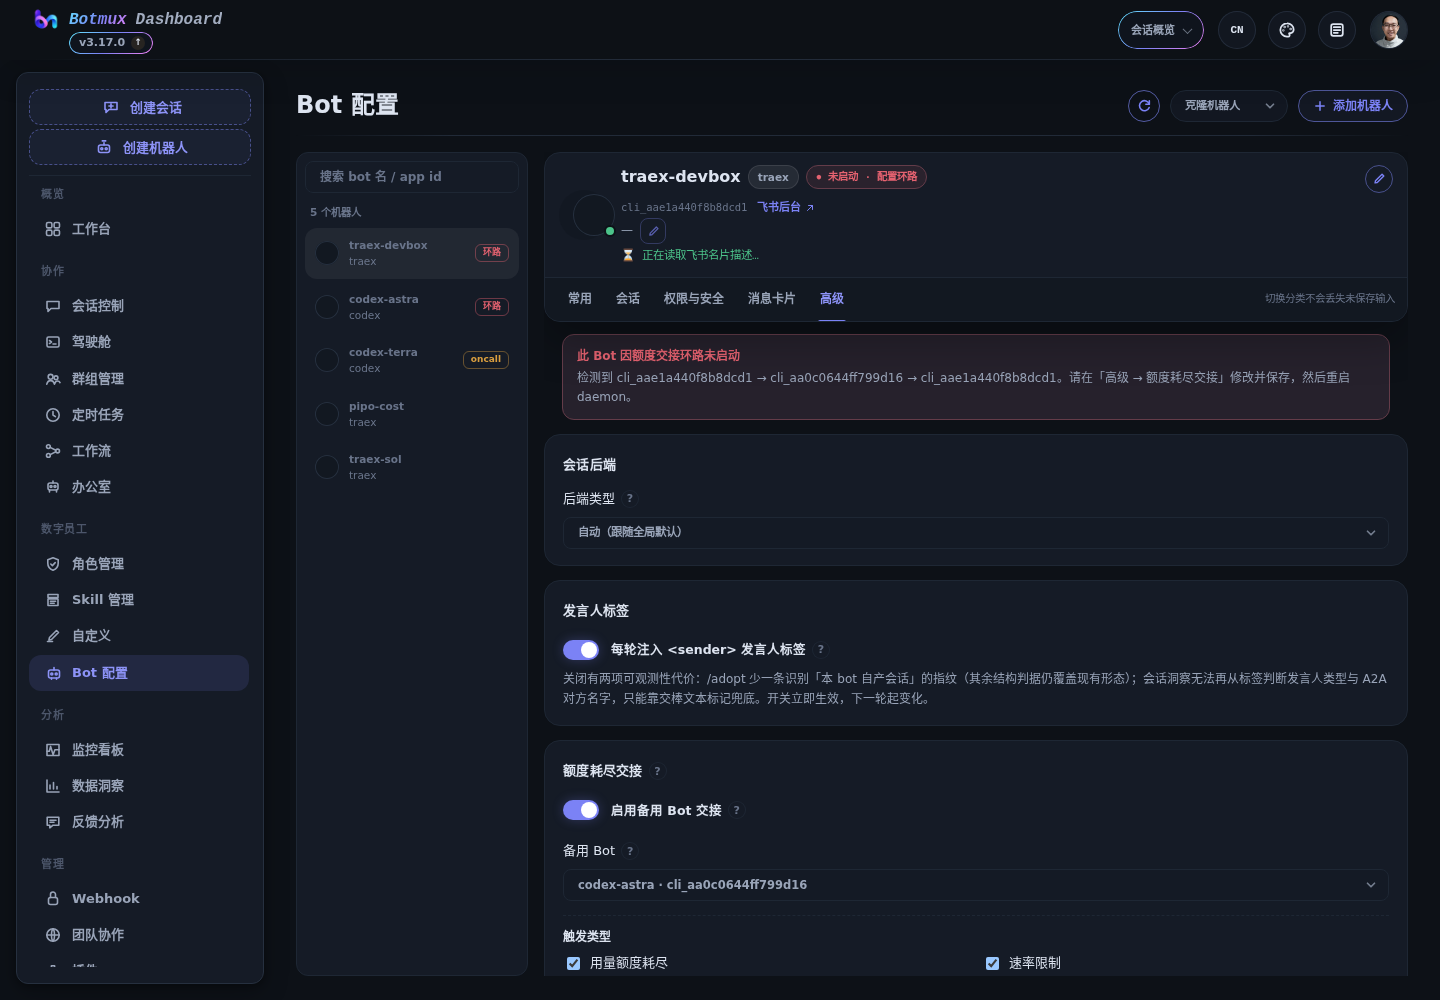
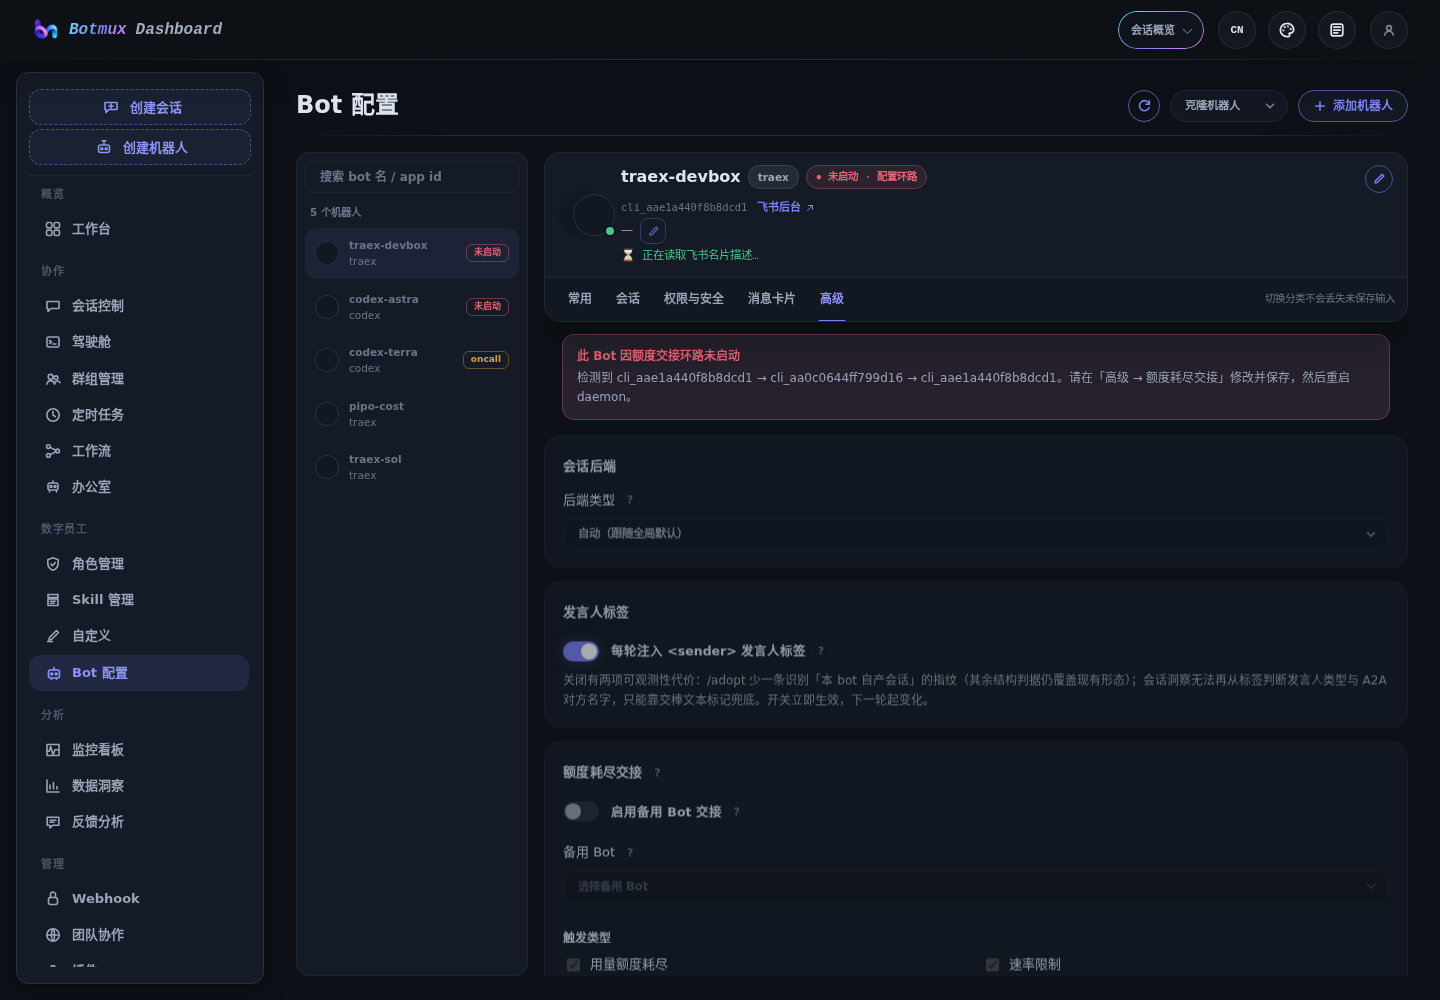
fix(dashboard): 统一未启动状态标签

diff --git a/src/dashboard/web/i18n.ts b/src/dashboard/web/i18n.ts
@@ -2067,7 +2067,7 @@ const zh = {
   'botDefaults.metaStartupBlocked': '未启动 · 配置环路',
   'botDefaults.metaOffline': '未启动 · 等待重启',
   'botDefaults.offlineBadge': '未启动',
-  'botDefaults.startupBlockedBadge': '环路',
+  'botDefaults.startupBlockedBadge': '未启动',
   'botDefaults.startupBlockedTitle': '此 Bot 因额度交接环路未启动',
   'botDefaults.startupBlockedHelp': '检测到 {cycle}。请在「高级 → 额度耗尽交接」修改并保存，然后重启 daemon。',
   'botDefaults.quotaFallbackSavedRestart': '已保存；重启 daemon 后启动此 Bot',
@@ -4923,7 +4923,7 @@ const en: Record<keyof typeof zh, string> = {
   'botDefaults.metaStartupBlocked': 'Not started · configuration cycle',
   'botDefaults.metaOffline': 'Not started · restart required',
   'botDefaults.offlineBadge': 'Offline',
-  'botDefaults.startupBlockedBadge': 'Cycle',
+  'botDefaults.startupBlockedBadge': 'Not started',
   'botDefaults.startupBlockedTitle': 'This Bot was not started because its quota handoff is cyclic',
   'botDefaults.startupBlockedHelp': 'Detected {cycle}. Fix it under Advanced → Quota-limit handoff, save, then restart the daemon.',
   'botDefaults.quotaFallbackSavedRestart': 'Saved; restart the daemon to start this Bot',

diff --git a/test/dashboard-bot-defaults-layout.test.ts b/test/dashboard-bot-defaults-layout.test.ts
@@ -207,6 +207,8 @@ describe('bot defaults focused layout', () => {
     expect(page).toContain('data-startup-blocked');
     expect(page).toContain("setActiveTab('advanced')");
     expect(page).toContain('res.body.restartRequired');
+    expect(i18n).toContain("'botDefaults.startupBlockedBadge': '未启动'");
+    expect(i18n).toContain("'botDefaults.startupBlockedBadge': 'Not started'");
     for (const key of [
       'quotaFallbackTitle', 'quotaFallbackTarget', 'quotaFallbackCycle', 'quotaFallbackSave',
       'startupBlockedBadge', 'startupBlockedTitle', 'startupBlockedHelp', 'metaOffline',
